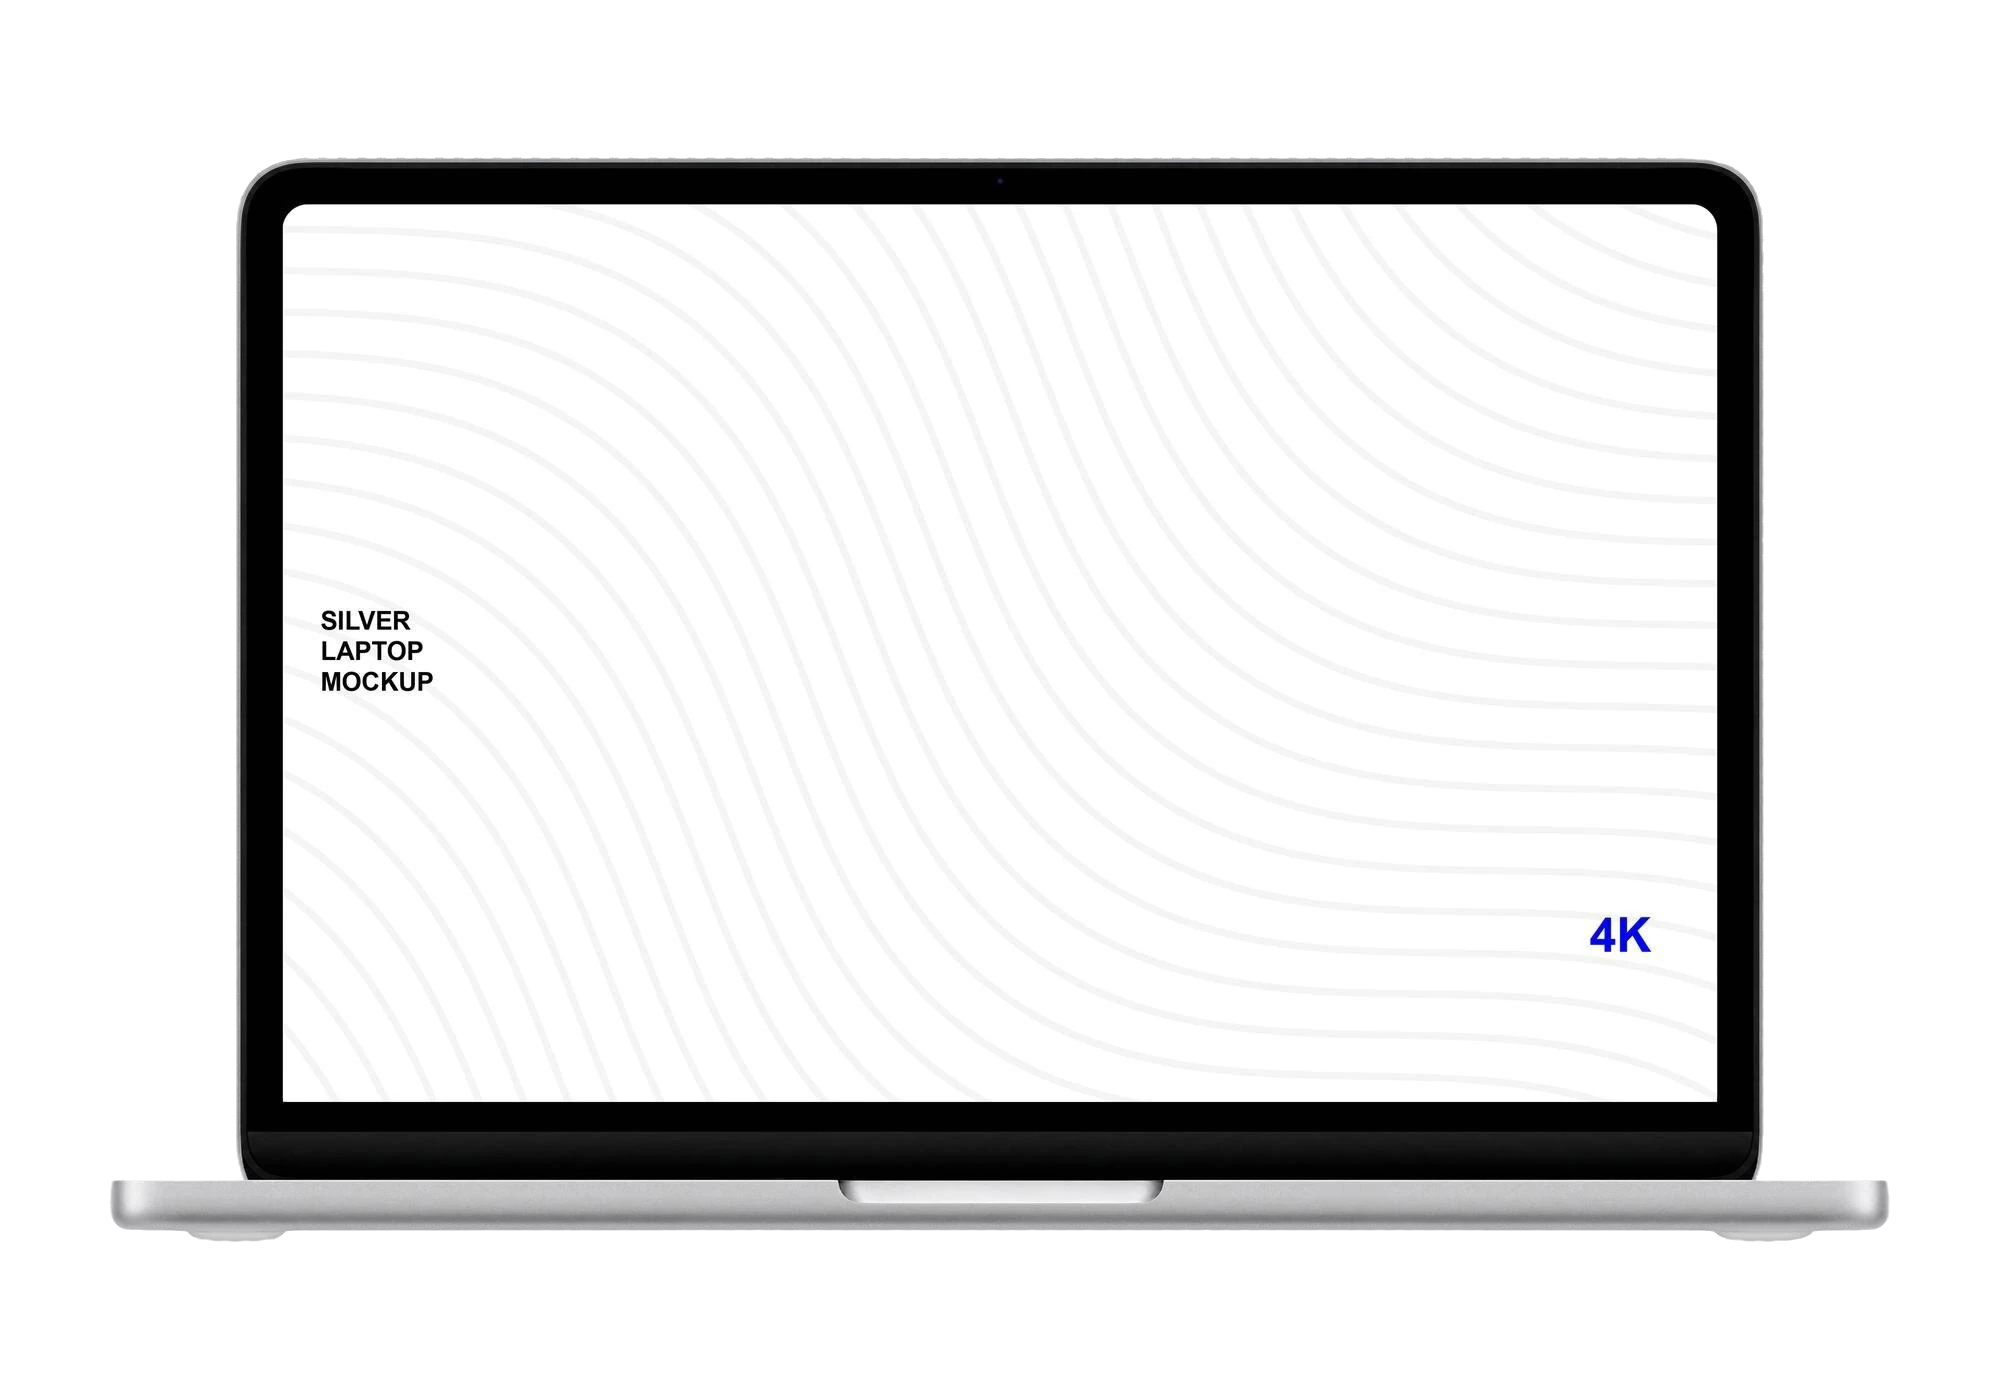
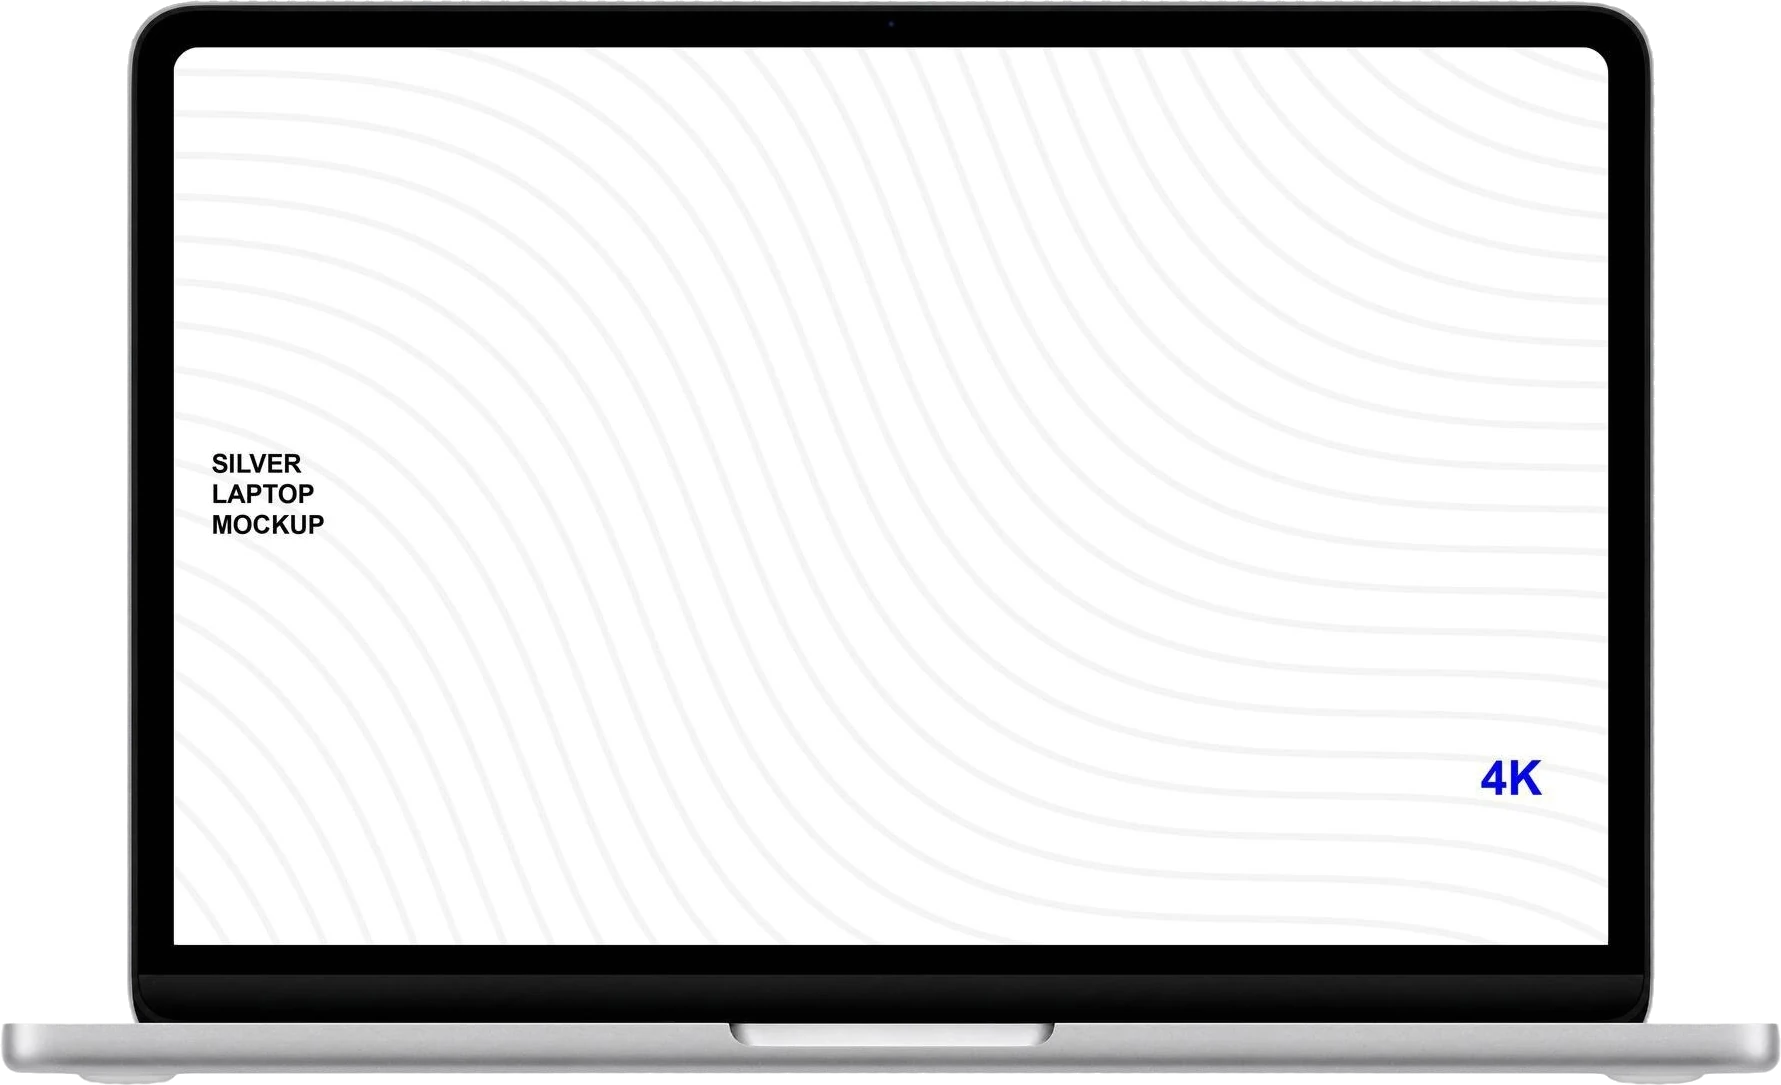
Walkthrough: laptop frame trimmed to the device, video fitted to its display
Claude-Session: https://claude.ai/code/session_017Ed9q8nUGjQkjXxfaSbXdR

diff --git a/src/data/projects/dimenso.js b/src/data/projects/dimenso.js
@@ -182,7 +182,7 @@ export const dimenso = {
       // while it is on screen. `screen` is the display area of the frame
       // image, in % of its size.
       layout: 'device',
-      device: { frame: macbookFrame, screen: { left: 14.15, top: 14.57, width: 71.7, height: 64.14 } },
+      device: { frame: macbookFrame, screen: { left: 9.75, top: 4.31, width: 80.6, height: 82.8 } },
       media: [{ kind: 'video', note: 'DIMENSO walkthrough', src: walkthroughVideo, poster: walkthroughPoster }],
     },
   ],
